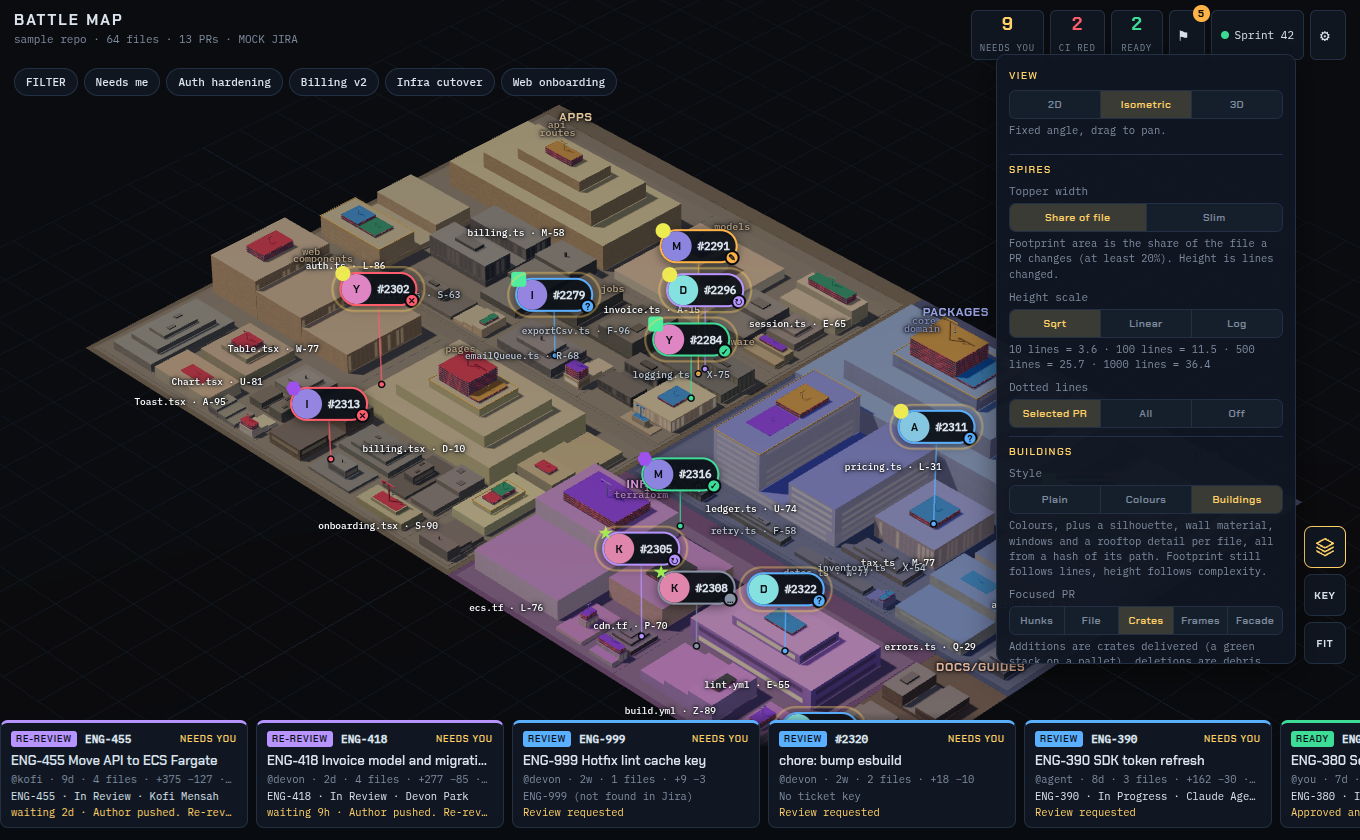
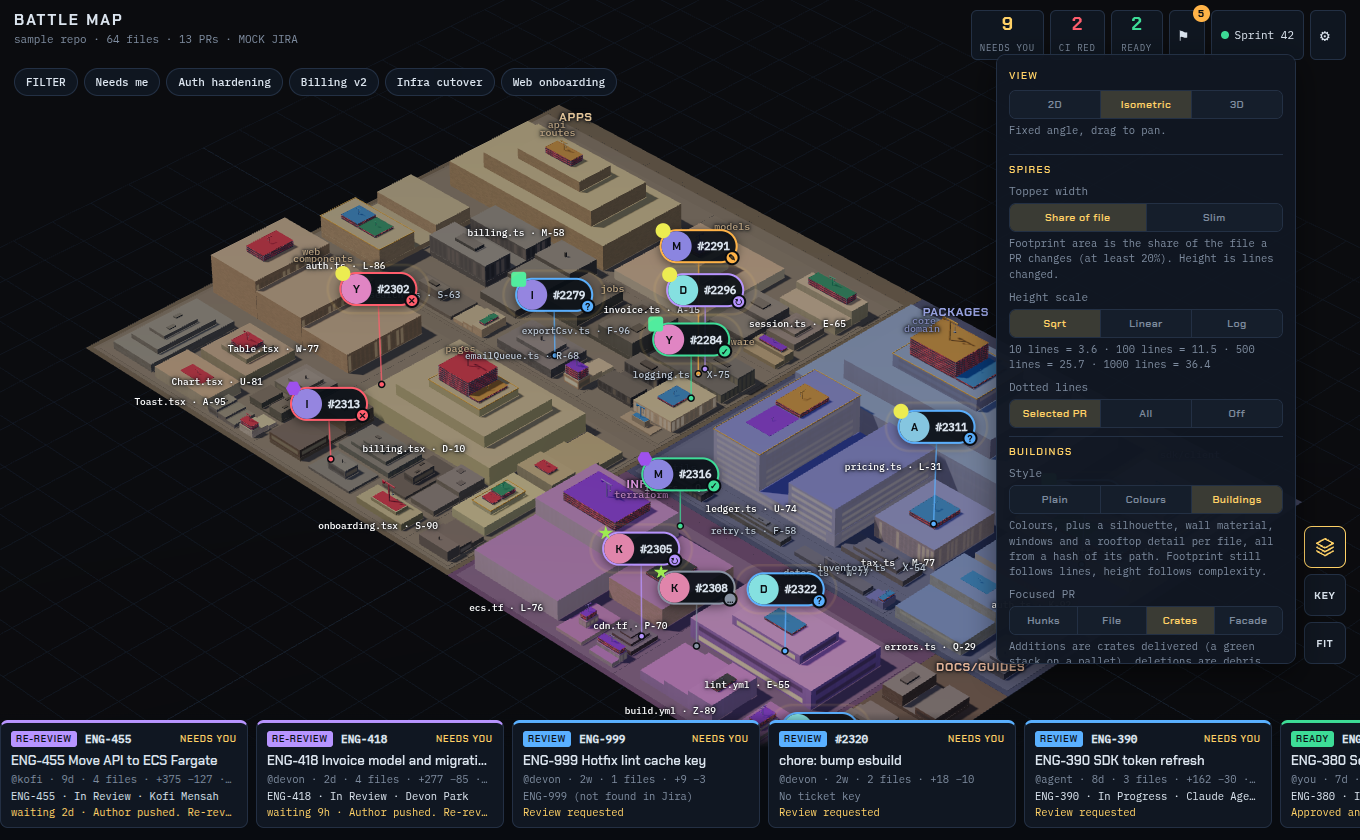
Hunks: red at the same footprint as green; drop the Frames view
Classic hunk stack: deleted (red) segments were drawn at 86% of the footprint, so they hid inside the
green. Both now share one footprint. The Frames focus view (scaffolding tower beside taped floors) is
removed: it was Crates in a different skin and read worse. Facade stays as the scaffolding view, with
the deletions as taped floors on the roof. Views are now Hunks, File, Crates, Facade; a stored 'side'
choice falls back to automatic.

diff --git a/test/sites.test.js b/test/sites.test.js
@@ -97,53 +97,7 @@ test('focused, facade style: scaffolding as tall as the additions, floors for th
   assert.ok(Math.max(...small.parts.filter((p) => (p.tone === 'add' || p.tone === 'status') && !p.diag).map((p) => p.z + p.h)) >= 2 - 1e-6, 'a tiny change still gets a visible scaffold');
 });
 
-test('focused, side by side: additions left and deletions right, same footprint, same baseline, same level height', () => {
-  const col = column({ focused: true, add: 420, del: 310, w: 12, d: 6, parts: [{ dz: 0, h: 3, kind: 'add', n: 420 }, { dz: 3, h: 3, kind: 'del', n: 310 }] });
-  const { parts, top: t } = siteParts(col, SHELL, { heightOf: height, focusStyle: 'side' });
-  const levels = (n) => Math.round(height(n) / FLOOR_H);
-  assert.equal(floors(parts), levels(310), 'the deleted side is as many floors as its lines need');
-  const scaf = parts.filter((p) => (p.tone === 'add' || p.tone === 'status') && !p.diag), poles = parts.filter((p) => p.tone === 'add' && !p.diag && p.h > FLOOR_H * 2);
-  assert.ok(Math.abs(Math.max(...scaf.map((p) => p.z + p.h)) - (12.2 + levels(420) * FLOOR_H)) < 1e-6, 'the added side is as many levels as its lines need');
-  assert.ok(poles.every((p) => Math.abs(p.z - 12.2) < 1e-9), 'both sides start on their pad, on the roof');
-  const pads = { add: parts.find((p) => p.tone === 'addPad'), del: parts.find((p) => p.tone === 'delPad') };
-  assert.deepEqual([pads.add.w, pads.add.d], [pads.del.w, pads.del.d], 'equal footprints');
-  assert.ok(pads.add.x < pads.del.x && pads.add.y === pads.del.y, 'adds left, deletes right, along the longer side');
-  assert.ok(Math.abs(pads.add.w + pads.del.w + (pads.del.x - pads.add.x - pads.add.w)) <= 12 + 1e-6, 'together they fit the slot');
-  assert.ok(Math.abs(t - (12.2 + Math.max(levels(420), levels(310)) * FLOOR_H)) < 1e-9);
-  for (const p of parts.filter((q) => !q.diag && q.tone !== 'add')) assert.ok(p.x - p.w / 2 >= col.x - 6.5 && p.x + p.w / 2 <= col.x + 6.5, 'inside the slot (give or take the thickness of a rail)');
-  assert.ok(!parts.some((p) => p.tone === 'statusDark'), 'no crane while focused');
-});
-
-test('side by side: the longer side of the slot decides where the halves go, and an empty side is just its pad', () => {
-  const tall = siteParts(column({ focused: true, w: 5, d: 14, add: 50, del: 0, parts: [{ dz: 0, h: 1, kind: 'add', n: 50 }] }), SHELL, { heightOf: height, focusStyle: 'side' }).parts;
-  const a = tall.find((p) => p.tone === 'addPad'), d = tall.find((p) => p.tone === 'delPad');
-  assert.ok(a.y < d.y && a.x === d.x, 'a tall slot splits front to back');
-  assert.equal(floors(tall), 0); assert.ok(d.h < 0.5, 'no deletions: only the red pad');
-  const same = (n) => siteParts(column({ focused: true, add: n, del: n, parts: [] }), SHELL, { heightOf: height, focusStyle: 'side' });
-  const eq = same(100), floorsEq = floors(eq.parts), lv = eq.parts.filter((p) => p.tone === 'status').length;
-  assert.equal(floorsEq, Math.round(height(100) / FLOOR_H)); assert.ok(lv >= 1, 'equal adds and deletes are equal levels');
-  assert.ok(floors(siteParts(column({ focused: true, add: 1, del: 1, parts: [] }), SHELL, { heightOf: height, focusStyle: 'side' }).parts) === 1, 'a single line is still a level');
-});
-
-test('lines on the file: belts at the hunk\'s place, as thick as its share of the file, line 1 at the roof', () => {
-  const shell = { rect: { x: 0, y: 0, w: 20, h: 10 }, h: 20 }, bands = (col) => lineBands({ z0: 30, ...col }, shell).parts;
-  const col = { loc: 200, add: 40, del: 20, hunks: [{ add: 40, del: 0, start: 1 }, { add: 0, del: 20, start: 101 }] };
-  const parts = bands(col), green = parts.filter((p) => p.tone === 'add'), red = parts.filter((p) => p.tone === 'tape');
-  assert.equal(green.length, 4); assert.equal(red.length, 4, 'a belt is a ring of four boxes');
-  assert.ok(Math.abs(green[0].h - (40 / 200) * 20) < 1e-9, '40 of 200 lines is a fifth of the building');
-  assert.ok(Math.abs(red[0].h - (20 / 200) * 20) < 1e-9, '20 lines is a tenth');
-  assert.ok(Math.abs(green[0].z + green[0].h - 20) < 1e-9, 'a hunk at line 1 touches the roof');
-  assert.ok(Math.abs(red[0].z + red[0].h - 10) < 1e-9, 'a hunk starting halfway sits halfway down');
-  assert.ok(parts.every((p) => p.z >= -1e-9 && p.z + p.h <= 20 + 1e-9 && p.ground), 'on the walls, never above the roof');
-  assert.ok(parts.some((p) => p.tone === 'metal' && p.h > 19 && p.z === 0), 'a ruler the height of the file');
-  const spread = bands({ loc: 100, add: 30, del: 0, hunks: [{ add: 10, del: 0 }, { add: 10, del: 0 }, { add: 10, del: 0 }] }).filter((p) => p.tone === 'add').filter((_, i) => i % 4 === 0).map((p) => p.z);
-  assert.ok(spread[0] > spread[1] && spread[1] > spread[2], 'hunks without a start are spread down the file in order');
-  const bare = bands({ loc: 50, add: 5, del: 5, hunks: null }); assert.ok(bare.some((p) => p.tone === 'add') && bare.some((p) => p.tone === 'tape'), 'no hunks at all: one belt for the totals');
-  assert.equal(siteParts({ ...column({ focused: true }), ...col }, shell, { focusStyle: 'lines' }).top, 12, 'nothing stands on the roof in this view');
-  assert.ok(Math.abs(bands({ loc: 1000, add: 1, del: 0, hunks: [{ add: 1, del: 0 }] })[0].h - 0.35) < 1e-9, 'a one-line change is still a visible belt');
-});
-
-test('crates and rubble: the same layout and levels as side by side, as solid stacks', () => {
+test('crates and rubble: additions left, deletions right, one layer per level, as solid stacks', () => {
   const col = column({ focused: true, add: 420, del: 310, w: 12, d: 6, parts: [] }), lv = (n) => Math.round(height(n) / FLOOR_H);
   const { parts, top: t } = siteParts(col, SHELL, { heightOf: height, focusStyle: 'crates' });
   const crates = parts.filter((p) => p.tone === 'add' || p.tone === 'crateDark'), rubble = parts.filter((p) => p.tone === 'rubble' || p.tone === 'rubble2');
@@ -162,7 +116,7 @@ test('every column in the sample turns into a bounded number of boxes', () => {
   const layout = buildLayout(sampleFiles()), st = { ...DEFAULT_STYLE }, b = new Map(), roofs = new Map();
   for (const l of layout.leaves) { const x = buildingFor(l, st, { gear: false }); b.set(l.path, x); roofs.set(l.path, { r: x.roof, height: x.roof.z }); }
   const prs = [{ id: '#1', status: 'review_requested', files: layout.leaves.map((l) => ({ path: l.path, add: 25, del: 5, hunks: [{ add: 25, del: 5 }] })) }];
-  for (const style of ['lines', 'crates', 'side', 'facade']) for (const focusId of [null, '#1']) for (const col of planSpires({ byPath: layout.byPath, prs, roofs, focusId })) {
+  for (const style of ['lines', 'crates', 'facade']) for (const focusId of [null, '#1']) for (const col of planSpires({ byPath: layout.byPath, prs, roofs, focusId })) {
     const { parts, top: t } = siteParts(col, b.get(col.path).shell, { heightOf: height, focusStyle: focusId ? style : 'facade' });
     assert.ok(parts.length > 0 && parts.length < 220, `${parts.length} boxes`);
     assert.ok(parts.every((p) => Number.isFinite(p.x + p.y + p.z) && (p.diag ? p.len > 0 : p.w > 0 && p.d > 0 && p.h > 0)) && t >= col.z0);
@@ -185,7 +139,7 @@ test('layering: belts, rails, scaffolding, crates, floors and cranes never put t
   const shell = { rect: { x: 10, y: 10, w: 24, h: 14 }, h: 12, H: 20, profile: silhouette(1, { x: 10, y: 10, w: 24, h: 14 }, 20, 0.5).parts };
   const hunks = Array.from({ length: 12 }, (_, i) => ({ add: 30 + i, del: i % 3 ? 10 : 40 }));   // more changed lines than the file has, so belts want to overlap
   const col = (o = {}) => column({ focused: true, x: 20, y: 17, w: 14, d: 8, z0: 20, add: 300, del: 200, loc: 120, hunks, parts: hunks.flatMap((h) => [{ kind: 'del', n: h.del }, { kind: 'add', n: h.add }]), ...o });
-  for (const focusStyle of ['lines', 'crates', 'side', 'facade']) for (const [add, del] of [[300, 200], [300, 0], [0, 200], [5, 5], [4000, 4000]]) {
+  for (const focusStyle of ['lines', 'crates', 'facade']) for (const [add, del] of [[300, 200], [300, 0], [0, 200], [5, 5], [4000, 4000]]) {
     const { parts } = siteParts(col({ add, del }), shell, { heightOf: height, focusStyle });
     assert.deepEqual(coplanarOverlaps(parts), [], `${focusStyle} +${add} -${del}: ${show(coplanarOverlaps(parts))}`);
   }

diff --git a/web/sites.js b/web/sites.js
@@ -104,9 +104,8 @@ const floorsFor = (n, heightOf) => (n > 0 ? clamp(Math.round(heightOf(n) / FLOOR
  *              hunks as taped floors on the roof, each hunk as many floors as its lines need
  * So height always reads in lines: adds on the crane or scaffold, deletes on the floors, one scale for both.
  */
-export function siteParts(col, shell, { heightOf = defaultHeight, focusStyle = 'side' } = {}) {
+export function siteParts(col, shell, { heightOf = defaultHeight, focusStyle = 'crates' } = {}) {
   const slot = { x: col.x, y: col.y, w: col.w, d: col.d }, parts = [];
-  if (col.focused && focusStyle === 'side') return sideBySide(col, slot, heightOf);
   if (col.focused && focusStyle === 'lines' && shell) return lineBands(col, shell);
   if (col.focused && focusStyle === 'crates') return crates(col, slot, heightOf);
   const delHunks = col.parts.filter((p) => p.kind === 'del').map((p) => p.n);
@@ -123,26 +122,12 @@ export function siteParts(col, shell, { heightOf = defaultHeight, focusStyle = '
   return { parts, top };
 }
 
-/**
- * A focused PR, the two halves of the change standing next to each other on the roof: additions as a scaffold tower on
- * the left, deletions as a taped-floor tower on the right. Same footprint, same baseline, same level height (FLOOR_H),
- * and each side is as many levels as its lines need on the one diff scale, so "how much added against how much deleted"
- * is two stacks you can count. The sides are fixed (adds left, deletes right, along the longer side of the slot), and
- * a side with nothing in it is just its flat pad, so an absence is visible too.
- */
+/** The two halves of a roof slot, side by side along its longer side: additions on the first, deletions on the second. */
 const PAD = 0.2;                                          // the flat pad under a focused side
 function halves(slot) {
   const longX = slot.w >= slot.d, gap = Math.min(1, Math.max(0.6, (longX ? slot.w : slot.d) * 0.08)), half = ((longX ? slot.w : slot.d) - gap) / 2;
   return longX ? [{ ...slot, x: slot.x - (half + gap) / 2, w: half }, { ...slot, x: slot.x + (half + gap) / 2, w: half }]
     : [{ ...slot, y: slot.y - (half + gap) / 2, d: half }, { ...slot, y: slot.y + (half + gap) / 2, d: half }];
-}
-function sideBySide(col, slot, heightOf) {
-  const [a, b] = halves(slot), parts = [], na = col.add > 0 ? floorsFor(col.add, heightOf) : 0, nd = col.del > 0 ? floorsFor(col.del, heightOf) : 0;
-  const z = col.z0 + PAD;                                  // both stacks stand on their pad, never in its plane
-  parts.push({ x: a.x, y: a.y, w: a.w, d: a.d, z: col.z0, h: PAD, tone: 'addPad' }, { x: b.x, y: b.y, w: b.w, d: b.d, z: col.z0, h: PAD, tone: 'delPad' });
-  if (na) parts.push(...scaffoldParts({ x: a.x - a.w / 2, y: a.y - a.d / 2, w: a.w, h: a.d }, na * FLOOR_H, { pad: 0, lift: FLOOR_H, z0: z, ground: false, t: clamp(Math.min(a.w, a.d) * 0.06, 0.2, 0.5), braces: na, maxPoles: 12 }));
-  for (let i = 0; i < nd; i++) parts.push(...tapeFloor(b, z + i * FLOOR_H, FLOOR_H));
-  return { parts, top: z + Math.max(na, nd, 1) * FLOOR_H };
 }
 
 /**
@@ -193,9 +178,9 @@ export function lineBands(col, shell) {
 const jitter = (a, b, c) => { let h = (Math.imul(a + 1, 73856093) ^ Math.imul(b + 1, 19349663) ^ Math.imul(c + 1, 83492791)) >>> 0; h = Math.imul(h ^ (h >>> 15), 2246822507) >>> 0; return (h ^ (h >>> 13)) % 1000 / 1000; };
 
 /**
- * The side-by-side view as a building site's yard instead of empty frames. Same layout and the same sizing rule
- * (a level is FLOOR_H, and each side is as many levels as its lines need on the one diff scale): additions are
- * crates delivered, a solid stack on a pallet on the left; deletions are debris hauled away, a rubble heap in a
+ * A focused PR as a building site's yard on the roof: additions on the left, deletions on the right, same footprint
+ * and the same sizing rule (a level is FLOOR_H, and each side is as many levels as its lines need on the one diff
+ * scale): additions are crates delivered, a solid stack on a pallet on the left; deletions are debris hauled away, a rubble heap in a
  * red skip on the right, as tall as the stack beside it. Stacks are solid, so the volumes read, not just the lines.
  */
 function crates(col, slot, heightOf) {

diff --git a/web/main.js b/web/main.js
@@ -273,7 +273,6 @@ const FOCUS_HELP = {
   hunks: 'The classic stack of green (added) and red (deleted) hunks standing on the roof, heights on the one diff scale.',
   lines: 'The building is the file: line 1 at the roof, the last line at the ground. Each hunk is a belt at its place in the file, as thick as the share of the file it covers (green added, red deleted). Good for where, and how much of the file.',
   crates: 'Additions are crates delivered (a green stack on a pallet), deletions are debris hauled away (a rubble heap in a red skip). Same footprint and level height, one scale for both: count the levels. Good for added against deleted.',
-  side: 'The same two sides as green scaffolding and red-taped floors: same footprint, same level height, count the levels.',
   facade: 'Additions climb the walls as scaffolding; deletions stack as taped floors on the roof.',
 };
 const BSTYLE_HELP = {
@@ -293,7 +292,7 @@ function buildingsSection() {
   return h('div', { class: 'lyr', id: 'l-buildings' }, h('h3', null, 'BUILDINGS'),
     h('div', { class: 'fl' }, h('span', null, 'Style'), seg(Object.entries(STYLE_MODES), b.mode, (v) => set({ mode: v }, true), 'Building style')),
     h('small', null, BSTYLE_HELP[b.mode]),
-    h('div', { class: 'fl' }, h('span', null, 'Focused PR'), seg([['hunks', 'Hunks'], ['lines', 'File'], ['crates', 'Crates'], ['side', 'Frames'], ['facade', 'Facade']], focusView(b), (v) => set({ focus: v }, true), 'Focused PR diff style')),
+    h('div', { class: 'fl' }, h('span', null, 'Focused PR'), seg([['hunks', 'Hunks'], ['lines', 'File'], ['crates', 'Crates'], ['facade', 'Facade']], focusView(b), (v) => set({ focus: v }, true), 'Focused PR diff style')),
     h('small', null, FOCUS_HELP[focusView(b)]),
     b.mode === 'plain' ? null : [
       slider('b-spread', 'Hue spread', 'spread', 0, 50, 1, (v) => `${v}\u00b0`),
@@ -352,7 +351,7 @@ function openKey() {
       h('h3', null, 'CONSTRUCTION SITES (Layers > Buildings > Buildings)'),
       h('ul', null,
         h('li', null, h('b', null, 'Crane'), ' on a roof = a PR is adding code to this file. Its colour is the PR\u2019s status, so it matches the flag. The whole crane is scaled by lines added on the same scale as the toppers, whatever the file or roof, so the same lines are the same crane anywhere. The flat pad under it is the share of the file changed. Two PRs on one roof, two cranes.'),
-        h('li', null, h('b', null, 'Scaffolding'), ' (green, with a ring in the PR colour at the top) = a focused PR\u2019s additions in the Frames and Facade styles. Frames is a tower on the left of the roof, next to the taped floors for the deletions: same footprint, same baseline, same level height, so count the levels. Facade puts it up the walls instead, as high as lines added (never past the fully walled part).'),
+        h('li', null, h('b', null, 'Scaffolding'), ' (green, with a ring in the PR colour at the top) = a focused PR\u2019s additions in the Facade view: it climbs the walls as high as lines added on the one scale (never past the fully walled part), and the deletions stack as taped floors on the roof.'),
         h('li', null, h('b', null, 'Belts on the building'), ' (Layers > Focused PR > File) = the building is the file, line 1 at the roof and the last line at the ground. Every hunk is a belt at its place in the file, green for lines added with the red for lines deleted under it, as thick as the share of the file it covers. A ruler up one corner marks every quarter. Hunks without line numbers are spread evenly in file order.'),
         h('li', null, h('b', null, 'Crates and a skip'), ' (Layers > Focused PR > Crates, the default in Buildings) = the focused PR\u2019s change as a yard: additions are a solid stack of green crates on a pallet, deletions are a rubble heap in a red skip beside it. Same footprint and level height, as many levels as the lines need on the one scale, so count the levels.'),
         h('li', null, h('b', null, 'Red-taped floor'), ' = lines were deleted. An emptied floor with red tape in an X on every face. The stack is as tall as lines deleted on that same scale (one floor is 2.4 of it, up to 24 floors); focused, it is one tower on the right of the roof, the same size as the additions tower.'),

diff --git a/web/scene.js b/web/scene.js
@@ -408,9 +408,8 @@ export function createScene(host, handlers = {}) {
       const bp = c.dimmed ? gBoxes : boxes, cp = c.dimmed ? gCaps : caps;
       const meta = { prId: c.prId, path: c.path, lines: c.lines, pct: c.pct, add: c.add, del: c.del };
       for (const part of c.parts) {
-        const f = part.kind === 'del' ? 0.86 : 1;
         const col = part.kind === 'add' ? _c.set(DIFF_COLORS.add) : part.kind === 'del' ? _c.set(DIFF_COLORS.del) : _c.copy(st);
-        bp.push(_p.set(c.x - CX, c.z0 + part.dz * p, c.y - CY), _s.set(c.w * f, Math.max(0.02, part.h * p), c.d * f), col, { ...meta, kind: part.kind, n: part.n });
+        bp.push(_p.set(c.x - CX, c.z0 + part.dz * p, c.y - CY), _s.set(c.w, Math.max(0.02, part.h * p), c.d), col, { ...meta, kind: part.kind, n: part.n });   // red and green share one footprint: a narrower red hides inside the green
       }
       cp.push(_p.set(c.x - CX, c.z0 + c.total * p, c.y - CY), _s.set(c.w * 0.7071, Math.max(0.02, capHeight(c) * p), c.d * 0.7071), _c.copy(st).offsetHSL(0, 0, 0.07), { ...meta, kind: 'cap' });
     }

diff --git a/web/building.js b/web/building.js
@@ -5,7 +5,7 @@
 import { hash } from './layout.js';
 
 /** How a focused PR's change is drawn on the map. 'hunks' is the classic stack of green and red hunks. */
-export const FOCUS_VIEWS = ['hunks', 'lines', 'crates', 'side', 'facade'];
+export const FOCUS_VIEWS = ['hunks', 'lines', 'crates', 'facade'];
 export const focusView = (style) => style.focus || (style.mode === 'full' ? 'crates' : 'hunks');
 export const SHAPES = ['block', 'stepped', 'crown', 'L-shape', 'tower', 'terraced', 'twin towers'];
 export const MATERIALS = ['concrete', 'brick', 'stone', 'steel'];

diff --git a/README.md b/README.md
@@ -19,7 +19,7 @@ Needs Node 20+. `npm link` gives you a global `battlemap` command.
 * **Footprint** = lines of code. **Height** = complexity. **Colour** = top-level package. Same file list, same map, every time.
 * **Buildings.** Every file also gets a look of its own, derived from a hash of its path: a shade inside its folder's colour, a silhouette (block, stepped, crown, L-shape, tower on a podium, terraced slabs or twin towers), a wall material (concrete, brick, stone or steel), a window pattern with its own window size, share of lit windows and warm glow, and a rooftop detail (antenna, water tank, vents). Each building also keeps a margin of its own inside its lot, so there are gaps and a mix of widths, like blocks of a city. The same file always looks the same, so neighbours in one folder are easy to tell apart without reading labels, and the folder colour still reads from far away. A short **index code** on each roof (`C-14`) gives people a name to say out loud: "look at C-14". It also shows in the hover tip and the file bar. Footprint still follows lines of code and height still follows complexity.
 * **Toppers.** Each PR that touches a file raises a column on that roof. Its **width** is the share of the file the PR changes (at least 20%, so one-line edits still show), and two PRs on one file split the roof. Its **height** is lines changed (adds + dels) on one global scale, so any two toppers on the map compare by eye. Layers > Spires switches the height scale between square root (default), linear and log, and the width between "Share of file" and "Slim".
-* **Construction sites** (Layers > Buildings > Buildings; Plain and Colours keep the toppers). One rule keeps them comparable: **height is lines, on the one global scale the toppers use**. A PR that adds code to a file puts a **tower crane** on its roof, in the PR's status colour so it matches the flag. The whole crane is scaled by the lines added, whatever the file or roof, so 9 lines is the same small crane everywhere and 400 lines a big one. The flat **pad** under it is the share of the file changed (at least 20%), so that fact is still there without bending the size. A PR that **deletes** lines adds a **red-taped floor** stack, an emptied open frame with an X of tape on every face, as tall as the lines deleted on that same scale (one floor is 2.4 units, up to 24). **Focus a PR** and each of its files shows the change in the style you pick under Layers > Focused PR (which every building style offers: on Plain and Colours the overview keeps its toppers and only the focused PR changes, with the classic **Hunks** stack as their automatic choice). **Crates** (the default) is a yard on the roof: **additions on the left** as a solid stack of green crates on a pallet, **deletions on the right** as a rubble heap in a red skip. **Frames** draws the same two sides as green scaffolding with a ring in the PR colour on top and the red-taped floors. For these two, both sides have the same footprint, the same baseline and the same 2.4-unit level height, and each is as many levels as its lines need on the one scale, so how much was added against how much was deleted is two stacks you can count; a side with nothing in it shows just its flat pad. **Facade** puts the scaffolding up the building's walls instead (as high as the lines added, up to its fully walled height). **File** makes the building the file: line 1 at the roof, the last line at the ground, and each hunk a green (added) and red (deleted) **belt** around the building at its place in the file, as thick as the share of the file it covers, following the tiers of the silhouette, with a ruler up one corner. It answers where in the file and how much of it; hunks may carry an optional `start` line (in the new file) to be placed exactly, and without it they are spread evenly in file order. Every other PR turns to glass. Two PRs on one roof, two cranes.
+* **Construction sites** (Layers > Buildings > Buildings; Plain and Colours keep the toppers). One rule keeps them comparable: **height is lines, on the one global scale the toppers use**. A PR that adds code to a file puts a **tower crane** on its roof, in the PR's status colour so it matches the flag. The whole crane is scaled by the lines added, whatever the file or roof, so 9 lines is the same small crane everywhere and 400 lines a big one. The flat **pad** under it is the share of the file changed (at least 20%), so that fact is still there without bending the size. A PR that **deletes** lines adds a **red-taped floor** stack, an emptied open frame with an X of tape on every face, as tall as the lines deleted on that same scale (one floor is 2.4 units, up to 24). **Focus a PR** and each of its files shows the change in the style you pick under Layers > Focused PR (which every building style offers: on Plain and Colours the overview keeps its toppers and only the focused PR changes, with the classic **Hunks** stack as their automatic choice). **Crates** (the default) is a yard on the roof: **additions on the left** as a solid stack of green crates on a pallet, **deletions on the right** as a rubble heap in a red skip. Both sides have the same footprint, the same baseline and the same 2.4-unit level height, and each is as many levels as its lines need on the one scale, so how much was added against how much was deleted is two stacks you can count; a side with nothing in it shows just its flat pad. **Facade** draws the additions as green scaffolding up the building's walls (with a ring in the PR colour on top, as high as the lines added, up to the building's fully walled height) and the deletions as red-taped floors on the roof. **File** makes the building the file: line 1 at the roof, the last line at the ground, and each hunk a green (added) and red (deleted) **belt** around the building at its place in the file, as thick as the share of the file it covers, following the tiers of the silhouette, with a ruler up one corner. It answers where in the file and how much of it; hunks may carry an optional `start` line (in the new file) to be placed exactly, and without it they are spread evenly in file order. Every other PR turns to glass. Two PRs on one roof, two cranes.
 * **Contested files** (two or more PRs) get a static amber frame around the roof.
 * **Focus a PR** (tap a card, flag or topper). Its columns split into hunks: red for deleted lines, green for added, heights proportional to lines. Every other PR turns to glass. Per-file `+n -n` floats over each topper and the left panel lists every file with a green/red bar. Moving dotted lines run from the flag to every file it touches.
 * **Flags** are PRs, and each fact has its own channel so they can be told apart from far away: the text is the PR number, ring colour = status, fill = author, the corner emblem (shape and hue) = epic, gold pulse = needs you. Every PR in one epic wears the same emblem. **Fog of war** dims files nobody is working on.

diff --git a/CLAUDE.md b/CLAUDE.md
@@ -26,7 +26,7 @@ server/providers/         code-host adapters for the sync: a PURE mapper (normal
 server/feedwatch.js       watches the feed's DIRECTORY, because a watch on the file dies when sync renames a new file over it
 server/watch.js           which PRs are tracked (picks, author and path rules, ended PRs). PURE matching + a small file-backed store
 server/config.js          config file (0600), Jira settings validation, token redaction
-web/layout.js spires.js sigil.js building.js sites.js    PURE geometry and identity (sites.js: the construction-site look of the diff layer, Buildings style, plus the focus views File belts, Crates, Frames and Facade, which every style can use for a focused PR; layering rules below; building.js: hash-derived colour, silhouette, windows, index code, roofs; planSpires takes a `roofs` map so toppers stand on them). No DOM, no three. Unit tested
+web/layout.js spires.js sigil.js building.js sites.js    PURE geometry and identity (sites.js: the construction-site look of the diff layer, Buildings style, plus the focus views File belts, Crates and Facade (plus the classic Hunks stack), which every style can use for a focused PR; layering rules below; building.js: hash-derived colour, silhouette, windows, index code, roofs; planSpires takes a `roofs` map so toppers stand on them). No DOM, no three. Unit tested
 web/filters.js            PURE filter and sort model ("needs attention first" is a tiered comparator; see `attentionTier`) for the PR tray and the map (one model: search, authors, status, age, needs-me, epic). Takes `now` as an argument
 web/scene.js              Three.js glue: instanced meshes, camera, SVG/HTML overlay. Only checked by a smoke test with a stand-in three
 web/main.js               panels, dialogs, settings. All feed data goes in through h()/fill() as text nodes, never HTML
